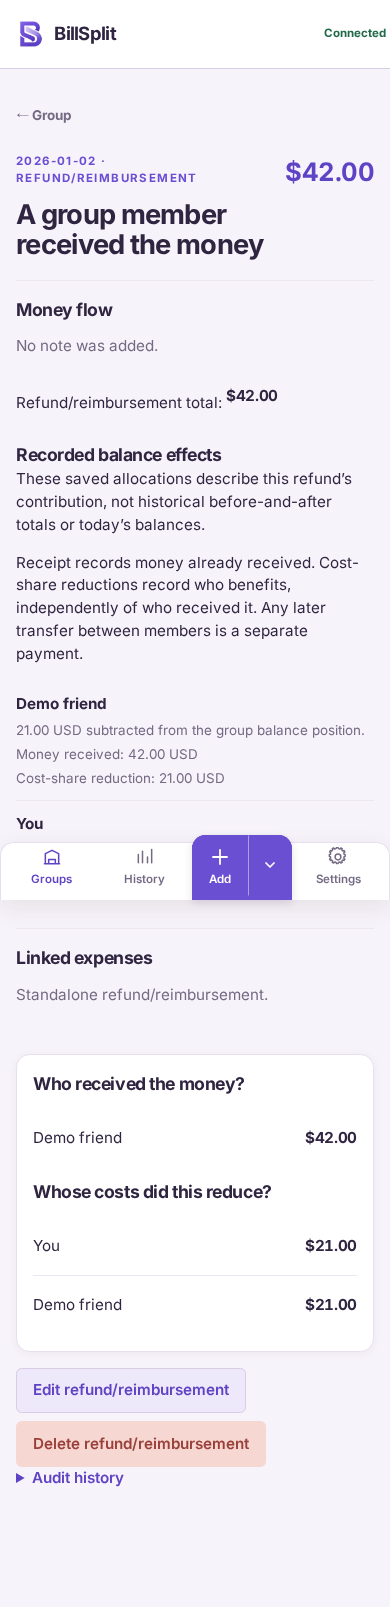
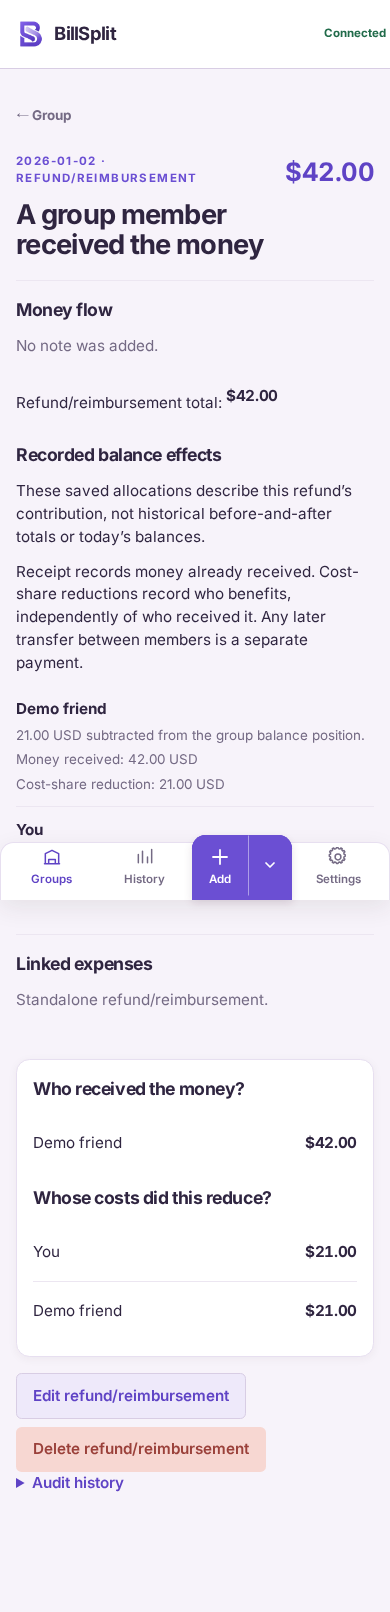
Update refund audit assertions and detail spacing

diff --git a/tests/e2e/audit.spec.ts b/tests/e2e/audit.spec.ts
@@ -812,40 +812,53 @@ async function populateRefundAuditState(page: Page) {
   await expect(page.locator('input[name="allocation-recipient-1-amount"]')).toHaveValue('42.00');
   await expect(page.locator('.refund-application-status')).toHaveText('Fully applied');
   await expect(page.locator('.refund-preview-person')).toHaveCount(3);
-  await expect(page.locator('.refund-preview-list')).toContainText('Received');
-  await expect(page.locator('.refund-preview-list')).toContainText('Cost reduction');
-  await expect(page.locator('.refund-preview-list')).toContainText('Net balance effect');
+  // fixture.sql already includes the saved 42 USD refund and 10 USD repayment.
+  await expect(page.locator('.refund-preview-person')).toHaveText([
+    'Demo friendCurrent: Demo friend owes 46.00 USD → After saving: Demo friend owes 74.00 USD',
+    'YouCurrent: You are owed 60.00 USD → After saving: You are owed 74.00 USD',
+    'Demo participantCurrent: Demo participant owes 14.00 USD → After saving: Demo participant is settled up (USD)',
+  ]);
+  await expect(page.locator('#refund-money-flow')).toContainText('Who actually received the money?');
+  await expect(page.getByLabel('Affected shares', { exact: true })).toContainText('original split');
   await expect(page.getByRole('heading', { name: 'How this affects settlement', exact: true })).toBeVisible();
-  await expect(page.locator('.refund-preview-list')).toContainText('The amount you owe');
+  await expect(page.locator('.refund-preview-section')).toContainText('Receiving money records cash already received; reducing a cost share records who benefits. These can be different people.');
 }
 
 async function populateStandaloneRefundAuditState(page: Page) {
-  const pathSelect = page.getByLabel('Apply this to', { exact: true });
+  const pathSelect = page.getByRole('combobox', { name: 'Apply this to', exact: true });
   await pathSelect.selectOption('standalone');
   await expect(pathSelect).toHaveValue('standalone');
-  await expect(page.getByText('Standalone records do not change an expense.', { exact: true })).toBeVisible();
-  const modeSelect = page.getByLabel('How was it handled?', { exact: true });
-  await expect(modeSelect.locator('option[value="direct_provider_offset"]')).toBeDisabled();
+  await expect(page.getByText('Standalone records do not change an expense.', { exact: false })).toBeVisible();
+  const modeSelect = page.getByRole('combobox', { name: 'How was it handled?', exact: true });
+  await expect(modeSelect.locator('option[value="direct_provider_offset"]')).toHaveJSProperty('disabled', true);
   await expect(page.getByLabel('Affected member 1', { exact: true })).toBeVisible();
   await page.getByLabel('Affected member 1', { exact: true }).selectOption('00000000-0000-4000-8000-000000002004');
   await page.getByLabel('Affected member amount 1 (USD)', { exact: true }).fill('42.00');
   await expect(page.getByLabel('Affected member amount 1 (USD)', { exact: true })).toHaveValue('42.00');
   await expect(page.getByText('Standalone mode requires explicit recipient and affected-member allocations.', { exact: true })).toBeVisible();
+  await expect(page.locator('.refund-preview-person')).toHaveText([
+    'Demo friendCurrent: Demo friend owes 46.00 USD → After saving: Demo friend owes 88.00 USD',
+    'Demo participantCurrent: Demo participant owes 14.00 USD → After saving: Demo participant is owed 28.00 USD',
+  ]);
 }
 
 async function populateLinkedDirectProviderRefundAuditState(page: Page) {
-  const pathSelect = page.getByLabel('Apply this to', { exact: true });
+  const pathSelect = page.getByRole('combobox', { name: 'Apply this to', exact: true });
   await pathSelect.selectOption('linked');
   await expect(pathSelect).toHaveValue('linked');
-  await page.getByLabel('Expense 1', { exact: true }).selectOption(ids.dinner);
-  await expect(page.getByLabel('Expense 1', { exact: true })).toHaveValue(ids.dinner);
+  await page.getByRole('combobox', { name: 'Expense 1', exact: true }).selectOption(ids.dinner);
+  await expect(page.getByRole('combobox', { name: 'Expense 1', exact: true })).toHaveValue(ids.dinner);
   await page.getByLabel('How much? (USD)', { exact: true }).fill('42.00');
   await page.getByLabel('Applied amount for expense 1 (USD)', { exact: true }).fill('42.00');
-  const modeSelect = page.getByLabel('How was it handled?', { exact: true });
+  const modeSelect = page.getByRole('combobox', { name: 'How was it handled?', exact: true });
   await modeSelect.selectOption('direct_provider_offset');
   await expect(modeSelect).toHaveValue('direct_provider_offset');
-  await expect(page.locator('.refund-preview-list')).toContainText('Payment reduction');
-  await expect(page.locator('.refund-preview-list')).toContainText('Cost reduction');
+  await expect(page.locator('.refund-preview-person')).toHaveText([
+    'YouCurrent: You are owed 60.00 USD → After saving: You are owed 32.00 USD',
+    'Demo friendCurrent: Demo friend owes 46.00 USD → After saving: Demo friend owes 32.00 USD',
+    'Demo participantCurrent: Demo participant owes 14.00 USD → After saving: Demo participant is settled up (USD)',
+  ]);
+  await expect(page.locator('.refund-preview-section')).toContainText('An original payment or bill adjustment reduces the recorded payment instead of recording a new receipt.');
   await expect(page.getByText('Both payer and affected shares are derived from linked expenses.', { exact: true })).toBeVisible();
 }
 
@@ -1072,7 +1085,9 @@ test('browser audit matrix captures validated routes, geometry, and full-page sc
   const failures: HarnessFailure[] = [];
   const coverage: Coverage[] = [];
   const artifactDirectory = auditArtifactDirectory('normal');
-  for (const scenario of scenarios) {
+  const requestedScenarios = process.env.AUDIT_SCENARIOS?.split(',');
+  if (requestedScenarios) expect(requestedScenarios.filter((name) => !scenarios.some((scenario) => scenario.name === name)), 'Unknown AUDIT_SCENARIOS').toEqual([]);
+  for (const scenario of scenarios.filter((scenario) => !requestedScenarios || requestedScenarios.includes(scenario.name))) {
     const scenarioViewports = scenario.name === 'group-insights' || scenario.name === 'global-insights' || scenario.name === 'empty-global-insights' || scenario.name === 'custom-insights' || scenario.name === 'invalid-custom-insights' ? insightViewports : viewports;
     for (const viewport of scenarioViewports) {
       const context = await openContext(browser, scenario.auth, viewport);
@@ -1087,12 +1102,30 @@ test('browser audit matrix captures validated routes, geometry, and full-page sc
         } catch { /* Ignore non-HTTP request URLs. */ }
       });
       try {
+        if (['record-credit', 'refund-form', 'refund-edit', 'credit-edit-alias', 'refund-detail', 'refund-detail-deleted'].includes(scenario.name)) {
+          // Keep ledger values and freshness metadata from the real fixture API,
+          // but anonymize identities before rendering refund screenshot evidence.
+          await page.route('**/api/**', async (route) => {
+            const response = await route.fetch();
+            if (!response.headers()['content-type']?.includes('application/json')) { await route.fulfill({ response }); return; }
+            const sanitize = (value: unknown): unknown => {
+              if (typeof value === 'string') return value.replaceAll('Dev User', 'Demo user').replaceAll('Sam Rivera', 'Demo friend').replaceAll('Priya Shah', 'Demo participant');
+              if (Array.isArray(value)) return value.map(sanitize);
+              if (value && typeof value === 'object') return Object.fromEntries(Object.entries(value).map(([key, entry]) => [key, key === 'avatarHash' ? null : sanitize(entry)]));
+              return value;
+            };
+            await route.fulfill({ response, json: sanitize(await response.json()) });
+          });
+        }
         if (scenario.name === 'group-insights' || scenario.name === 'global-insights' || scenario.name === 'empty-global-insights') {
           const scope = scenario.name === 'group-insights' ? 'group' : 'global';
            await page.route('**/api/spending-insights*', (route) => { const fixture = populatedInsightFixture(scope, scenario.name === 'empty-global-insights'); return route.fulfill({ status: 200, contentType: 'application/json', body: JSON.stringify(new URL(route.request().url()).searchParams.get('view') === 'trends' ? fixture.trends : fixture.summary) }); });
         }
           await page.goto(`${BASE_URL}${scenario.path}`, { waitUntil: 'domcontentloaded', timeout: 15_000 });
           await waitForScenarioReady(page, scenario);
+        if (['record-credit', 'refund-form', 'refund-edit', 'credit-edit-alias'].includes(scenario.name)) {
+          await expect.poll(() => observations.some((response) => response.path === apiPaths.balances(ids.rich) && response.status === 200)).toBe(true);
+        }
         if (scenario.auth && !apiHeaders.some((request) => request.path === apiPaths.me && request.headers['x-dev-email'] === scenario.auth)) throw new Error(`Authenticated context did not send X-Dev-Email: ${scenario.auth}`);
         if (!scenario.auth && apiHeaders.some((request) => request.headers['x-dev-email'])) throw new Error('Public landing context sent X-Dev-Email');
         await assertRendered(page, scenario, observations, viewport);
@@ -1148,7 +1181,7 @@ test('browser audit matrix captures validated routes, geometry, and full-page sc
               name: 'refund-form-linked-direct-provider',
               routeSuffix: '[linked direct provider]',
               context: 'RefundForm / linked direct-provider adjustment with derived payer and cost reductions',
-              content: 'Payment reduction',
+              content: 'Current: You are owed 60.00 USD → After saving: You are owed 32.00 USD',
               populate: populateLinkedDirectProviderRefundAuditState,
             }, observations, viewport, artifactDirectory, findings, failures, coverage);
           }

diff --git a/src/app/refund-record-effects.tsx b/src/app/refund-record-effects.tsx
@@ -5,7 +5,7 @@ import { LedgerList, LedgerRow, SectionHeader } from './ui';
 
 export function RefundRecordEffects({ credit, label }: { credit: Credit; label: (id: string) => string }) {
   if (credit.deletedAt) return null;
-  return <section><SectionHeader title="Recorded balance effects" />
+  return <section className="reading-section"><SectionHeader title="Recorded balance effects" />
     <p>These saved allocations describe this refund’s contribution, not historical before-and-after totals or today’s balances.</p>
     <p>{credit.deliveryMode === 'member_reimbursement'
       ? 'Receipt records money already received. Cost-share reductions record who benefits, independently of who received it. Any later transfer between members is a separate payment.'
